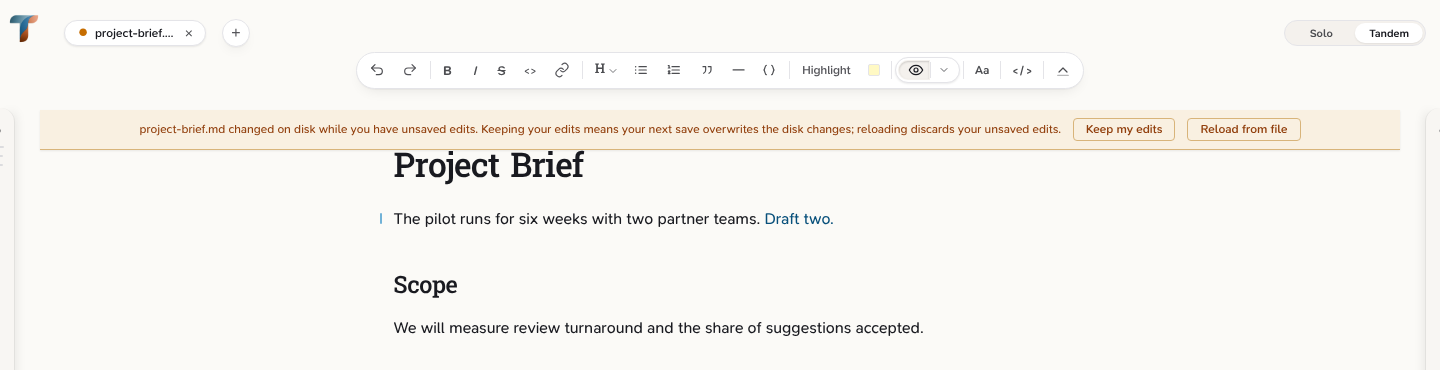
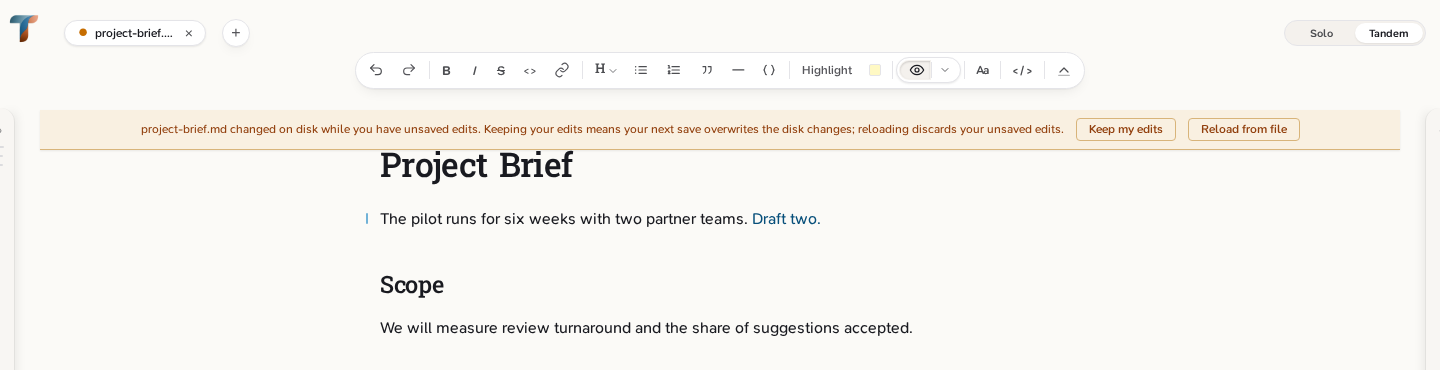
docs(screenshots): recapture after the link-colour fix (#2275)
#2275 gave document links a theme token colour; before it, every slot
that shows the welcome document painted "User Guide" in the browser's
default blue, unreadable on dark (slot 15). The whole automatic set is
recaptured in one run (it shares background state), which also picks
up master's newer Playwright browser build, so every image shifts a
little in text rendering. Each image was checked by eye against its
slot row; slot 13's privacy scan passed.

Slot 07 now closes Settings with its close button rather than Escape:
the modal's Escape handler acts only while focus is inside it, and on
current master focus has left the modal after Save, so the capture
failed (deterministically, twice).

Claude-Session: https://claude.ai/code/session_01LMANrkxAR141SFLj4m8LLS

diff --git a/scripts/screenshots/capture.spec.ts b/scripts/screenshots/capture.spec.ts
@@ -885,8 +885,10 @@ test("07-toast-notification", async ({ page }) => {
   // Close Settings before the shot. Its backdrop is a 70% wash of the page
   // background on the above-titlebar tier (z 100000), far above the toast tier
   // (1100), so every capture of this slot until now was a pale ghost of the
-  // toast seen through it. The toast outlives the modal by design.
-  await page.keyboard.press("Escape");
+  // toast seen through it. The toast outlives the modal by design. Closed with
+  // its button, not Escape: the modal's Escape handler acts only while focus is
+  // inside it, and after Save focus is not guaranteed to be.
+  await page.getByTestId("settings-modal-close-btn").click();
   await expect(page.getByTestId("settings-modal")).toHaveCount(0);
   await expect(toast).toContainText("Working directory saved.");
   // And wait out the 200ms slide-in: `toBeVisible` passes on its first frame.
